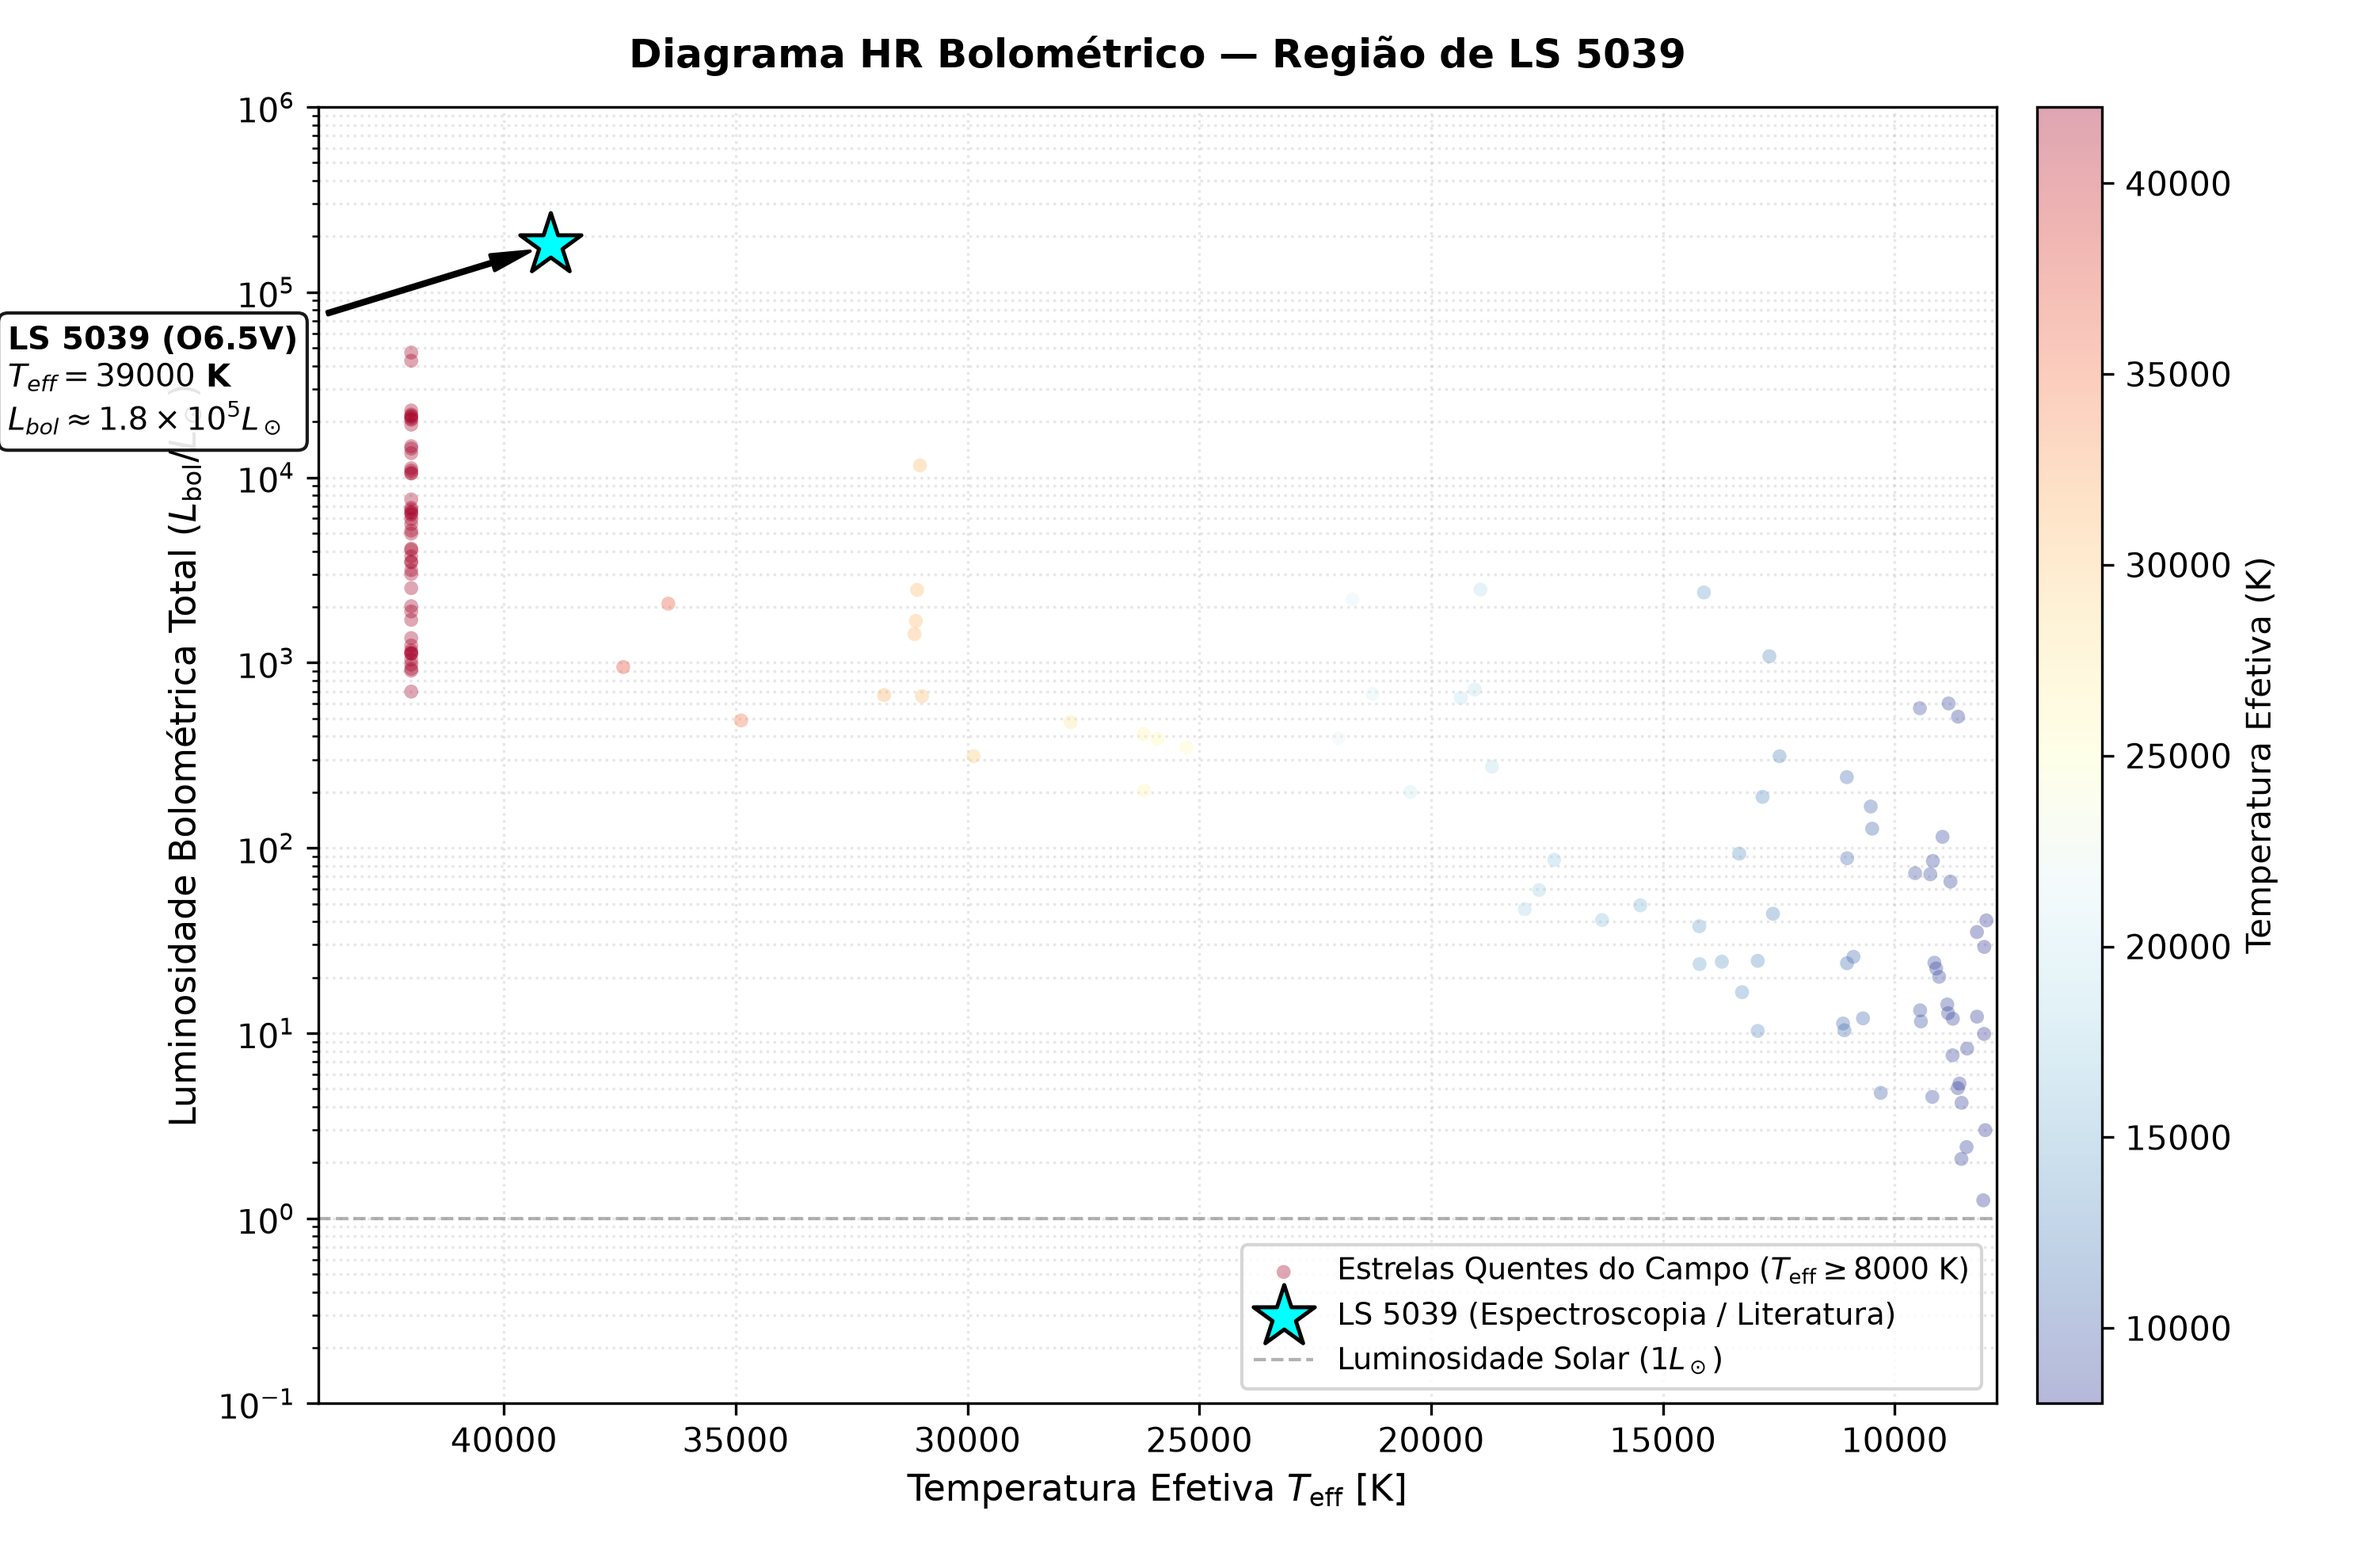
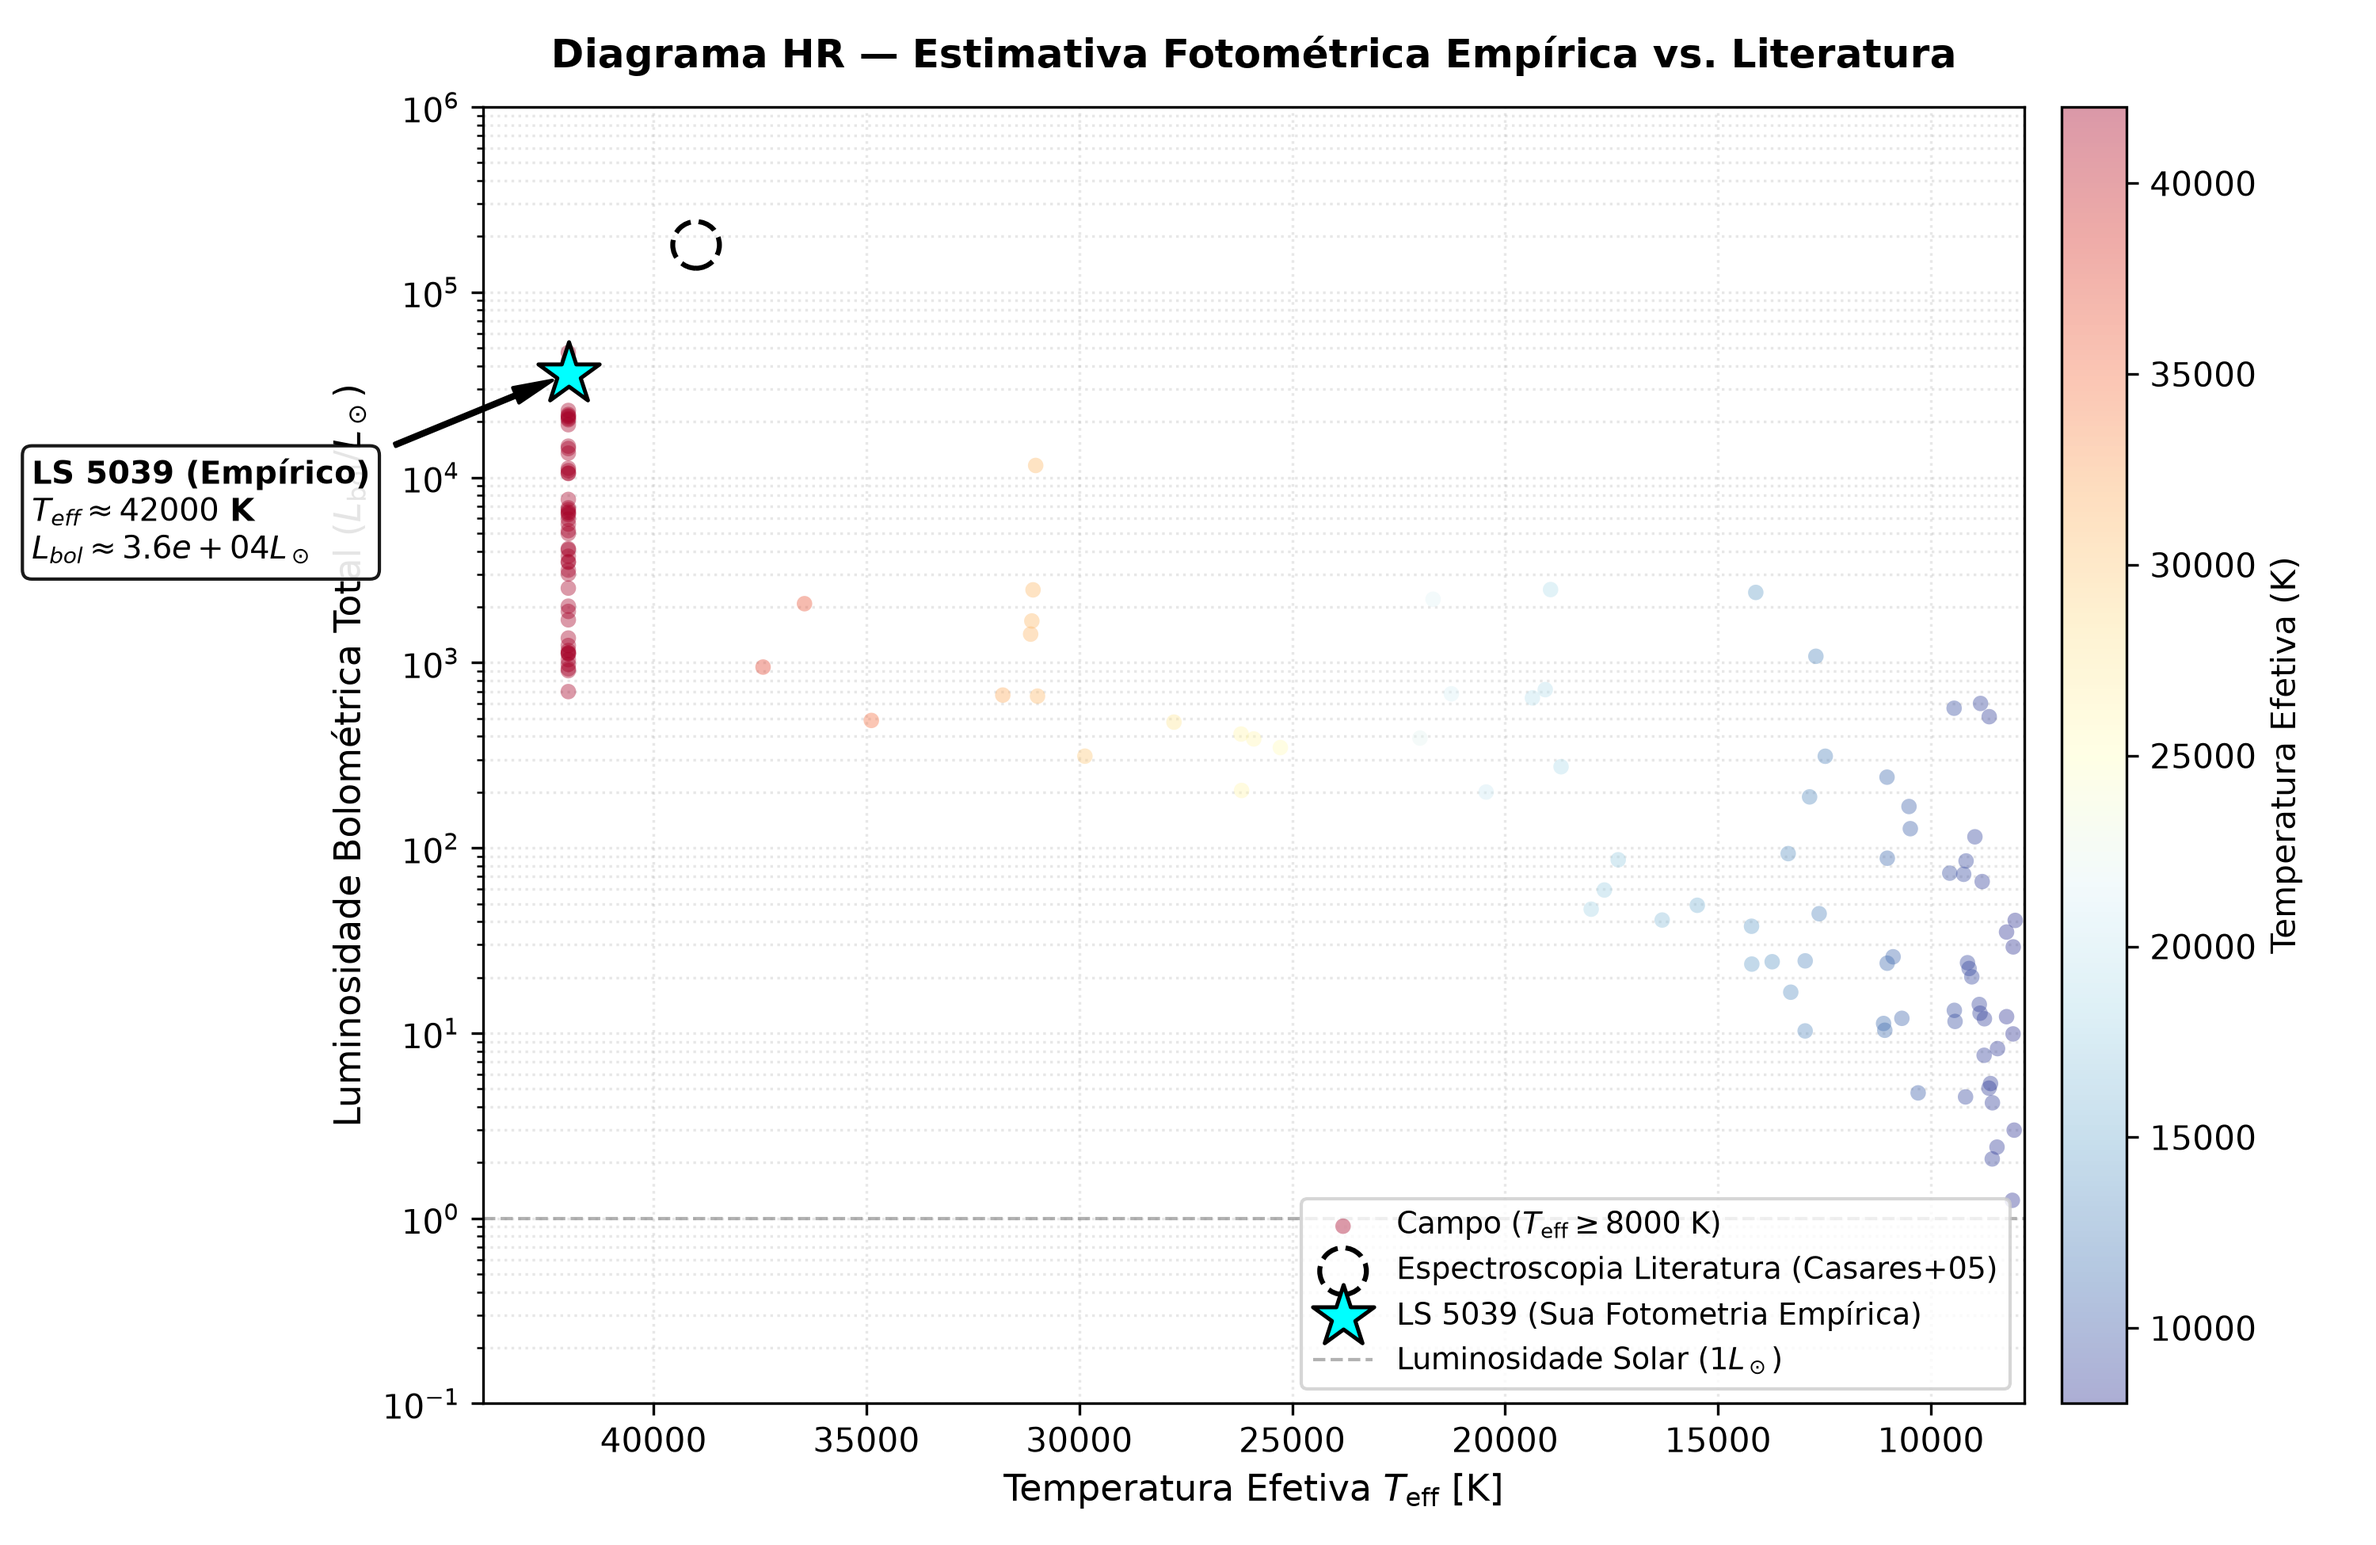
mud

diff --git a/scripts/fotometria/temp_lumin.py b/scripts/fotometria/temp_lumin.py
@@ -11,22 +11,22 @@ from scipy.interpolate import interp1d
 warnings.filterwarnings('ignore')
 
 # ==========================================
-# 1. PARAMETROS LOCAIS & LITERATURA
+# 1. ARQUIVOS & PARÂMETROS
 # ==========================================
 DIR_ATUAL = Path(__file__).resolve().parent
 ARQUIVO_FOTOMETRIA = DIR_ATUAL / 'resultado_fotometria_calibrada_BG.csv'
 
-RA_ALVO, DEC_ALVO = 276.5627, -14.8479  # LS 5039
+RA_ALVO, DEC_ALVO = 276.5627, -14.8479  # Posição LS 5039
 E_BG_MAX = 1.28
 A_G_MAX = 3.07
 DIST_ALVO_PC = 2500.0
 MAG_BOL_SOL = 4.74
 
-# Literatura (Casares et al. 2005): Espectroscopia NLTE
-TEFF_LS5039_LIT = 39000.0  # K
-LUM_LS5039_LIT = 1.8e5     # L_sun
+# Referência da Literatura para Comparação (Casares et al. 2005)
+TEFF_LIT = 39000.0
+LUM_LIT = 1.8e5
 
-# Tabela Mamajek com travas de borda para evitar extrapolação
+# Tabela Pecaut & Mamajek (2013)
 bg0_grid = np.array([-0.363, -0.352, -0.330, -0.220, -0.110,  0.000,  0.165,  0.330])
 teff_grid = np.array([42000,  39000,  31400,  20000,  14000,   9500,   8000,   7000])
 bc_grid   = np.array([-3.80,  -3.50,  -3.00,  -2.10,  -1.20,  -0.30,   0.00,   0.05])
@@ -35,7 +35,7 @@ interp_teff = interp1d(bg0_grid, teff_grid, kind='linear', bounds_error=False, f
 interp_bc   = interp1d(bg0_grid, bc_grid, kind='linear', bounds_error=False, fill_value=(-3.80, 0.05))
 
 # ==========================================
-# 2. DADOS E GAIA DR3
+# 2. LEITURA DOS DADOS & GAIA DR3
 # ==========================================
 df_obs = pd.read_csv(ARQUIVO_FOTOMETRIA)
 coords_obs = SkyCoord(ra=df_obs['RA_deg'].values * u.deg, dec=df_obs['Dec_deg'].values * u.deg)
@@ -44,7 +44,7 @@ v = Vizier(columns=['RA_ICRS', 'DE_ICRS', 'Plx', 'e_Plx'], row_limit=-1)
 coord_centro = SkyCoord(ra=RA_ALVO * u.deg, dec=DEC_ALVO * u.deg)
 tabela_gaia = v.query_region(coord_centro, radius=15 * u.arcmin, catalog='I/355/gaiadr3')[0].to_pandas()
 
-# FILTRO GAIA: Remove dados com ruidos altos de paralaxe (e_Plx / Plx > 0.20)
+# Filtro de qualidade na paralaxe
 tabela_gaia = tabela_gaia[(tabela_gaia['Plx'] > 0) & (tabela_gaia['e_Plx'] / tabela_gaia['Plx'] < 0.20)]
 coords_gaia = SkyCoord(ra=tabela_gaia['RA_ICRS'].values * u.deg, dec=tabela_gaia['DE_ICRS'].values * u.deg)
 
@@ -55,7 +55,7 @@ df = df_obs[valid_gaia].copy().reset_index(drop=True)
 df['Paralaxe_mas'] = tabela_gaia['Plx'].iloc[idx_gaia[valid_gaia]].values
 
 # ==========================================
-# 3. CÁLCULOS FÍSICOS
+# 3. CÁLCULO EMPÍRICO (TODAS AS ESTRELAS)
 # ==========================================
 df['Distancia_pc'] = 1000.0 / df['Paralaxe_mas']
 modulo_distancia = 5 * np.log10(df['Distancia_pc']) - 5
@@ -64,47 +64,60 @@ fator_distancia = np.minimum(1.0, df['Distancia_pc'] / DIST_ALVO_PC)
 df['E_BG_local'] = E_BG_MAX * fator_distancia
 df['A_G_local'] = A_G_MAX * fator_distancia
 
+# Derivação estritamente empírica dos parâmetros físicos
 df['Cor_BG_0'] = df['Cor_B_G'] - df['E_BG_local']
-df['Teff'] = interp_teff(df['Cor_BG_0'])
-df['BC'] = interp_bc(df['Cor_BG_0'])
+df['Teff_emp'] = interp_teff(df['Cor_BG_0'])
+df['BC_emp'] = interp_bc(df['Cor_BG_0'])
 
 df['Mag_Abs_G0'] = df['Mag_Ap_G'] - modulo_distancia - df['A_G_local']
-df['Mag_Bol'] = df['Mag_Abs_G0'] + df['BC']
+df['Mag_Bol'] = df['Mag_Abs_G0'] + df['BC_emp']
 df['Luminosidade_Bol'] = 10 ** (-0.4 * (df['Mag_Bol'] - MAG_BOL_SOL))
 
-# Separa a LS 5039 do campo
+# Identificação empírica da LS 5039 pelas coordenadas
 coords_fisico = SkyCoord(ra=df['RA_deg'].values * u.deg, dec=df['Dec_deg'].values * u.deg)
 idx_alvo = np.argmin(coords_fisico.separation(coord_centro))
+
+ls5039_emp = df.iloc[idx_alvo]
 df_campo = df.drop(index=idx_alvo).reset_index(drop=True)
 
-# Filtro de exibição: Apenas estrelas com Teff >= 8000 K
-df_campo = df_campo[df_campo['Teff'] >= 8000].copy()
+# Filtro visual para o gráfico: estrelas quentes (Teff >= 8000 K)
+df_campo = df_campo[df_campo['Teff_emp'] >= 8000].copy()
+
+print(f"--- RESULTADO EMPÍRICO FOTOMÉTRICO (SUA REDUÇÃO) ---")
+print(f"LS 5039 -> Teff: {ls5039_emp['Teff_emp']:.0f} K | L_bol: {ls5039_emp['Luminosidade_Bol']:.2e} L_sun")
 
 # ==========================================
-# 4. PLOTAGEM DESPOLUÍDA
+# 4. DIAGRAMA HR
 # ==========================================
 fig, ax = plt.subplots(figsize=(10, 6.5), dpi=120)
 
-# Campo com pontos pequenos (s=18) e opacidade moderada (alpha=0.35)
+# 1. Estrelas do Campo
 sc = ax.scatter(
-    df_campo['Teff'], df_campo['Luminosidade_Bol'],
-    c=df_campo['Teff'], cmap='RdYlBu_r',
-    s=18, alpha=0.35, edgecolor='none',
-    zorder=3, label=r'Estrelas Quentes do Campo ($T_{\mathrm{eff}} \geq 8000$ K)'
+    df_campo['Teff_emp'], df_campo['Luminosidade_Bol'],
+    c=df_campo['Teff_emp'], cmap='RdYlBu_r',
+    s=22, alpha=0.4, edgecolor='none', zorder=3,
+    label=r'Campo ($T_{\mathrm{eff}} \geq 8000$ K)'
 )
 
-# Ponto da LS 5039 destacado
+# 2. Ponto de Referência da Literatura
 ax.scatter(
-    TEFF_LS5039_LIT, LUM_LS5039_LIT,
-    color='cyan', marker='*', s=380, edgecolor='black', linewidth=1.2,
-    zorder=10, label='LS 5039 (Espectroscopia / Literatura)'
+    TEFF_LIT, LUM_LIT,
+    color='none', marker='o', s=200, edgecolor='black', linewidth=1.5, linestyle='--',
+    zorder=8, label='Espectroscopia Literatura (Casares+05)'
 )
 
-# Anotação técnica
+# 3. Ponto Empírico Calculado do seu CSV
+ax.scatter(
+    ls5039_emp['Teff_emp'], ls5039_emp['Luminosidade_Bol'],
+    color='cyan', marker='*', s=380, edgecolor='black', linewidth=1.2,
+    zorder=10, label='LS 5039 (Sua Fotometria Empírica)'
+)
+
+# Anotação apontando para a sua estimativa empírica
 ax.annotate(
-    f'LS 5039 (O6.5V)\n$T_{{eff}} = {TEFF_LS5039_LIT:.0f}$ K\n$L_{{bol}} \\approx 1.8 \\times 10^5 L_\\odot$',
-    xy=(TEFF_LS5039_LIT, LUM_LS5039_LIT),
-    xytext=(TEFF_LS5039_LIT * 1.30, LUM_LS5039_LIT * 0.10),
+    f'LS 5039 (Empírico)\n$T_{{eff}} \\approx {ls5039_emp["Teff_emp"]:.0f}$ K\n$L_{{bol}} \\approx {ls5039_emp["Luminosidade_Bol"]:.1e} L_\\odot$',
+    xy=(ls5039_emp['Teff_emp'], ls5039_emp['Luminosidade_Bol']),
+    xytext=(ls5039_emp['Teff_emp'] * 1.30, ls5039_emp['Luminosidade_Bol'] * 0.10),
     arrowprops=dict(facecolor='black', shrink=0.08, width=1.0, headwidth=5),
     fontsize=9.5, fontweight='bold', bbox=dict(boxstyle='round,pad=0.3', facecolor='white', alpha=0.9)
 )
@@ -115,7 +128,7 @@ ax.set_yscale('log')
 ax.set_xlim(44000, 7800)
 ax.set_ylim(1e-1, 1e6)
 
-ax.set_title('Diagrama HR Bolométrico — Região de LS 5039', fontsize=12, fontweight='bold', pad=12)
+ax.set_title('Diagrama HR — Estimativa Fotométrica Empírica vs. Literatura', fontsize=12, fontweight='bold', pad=12)
 ax.set_xlabel(r'Temperatura Efetiva $T_{\mathrm{eff}}$ [K]', fontsize=11)
 ax.set_ylabel(r'Luminosidade Bolométrica Total ($L_{\mathrm{bol}} / L_\odot$)', fontsize=11)
 
